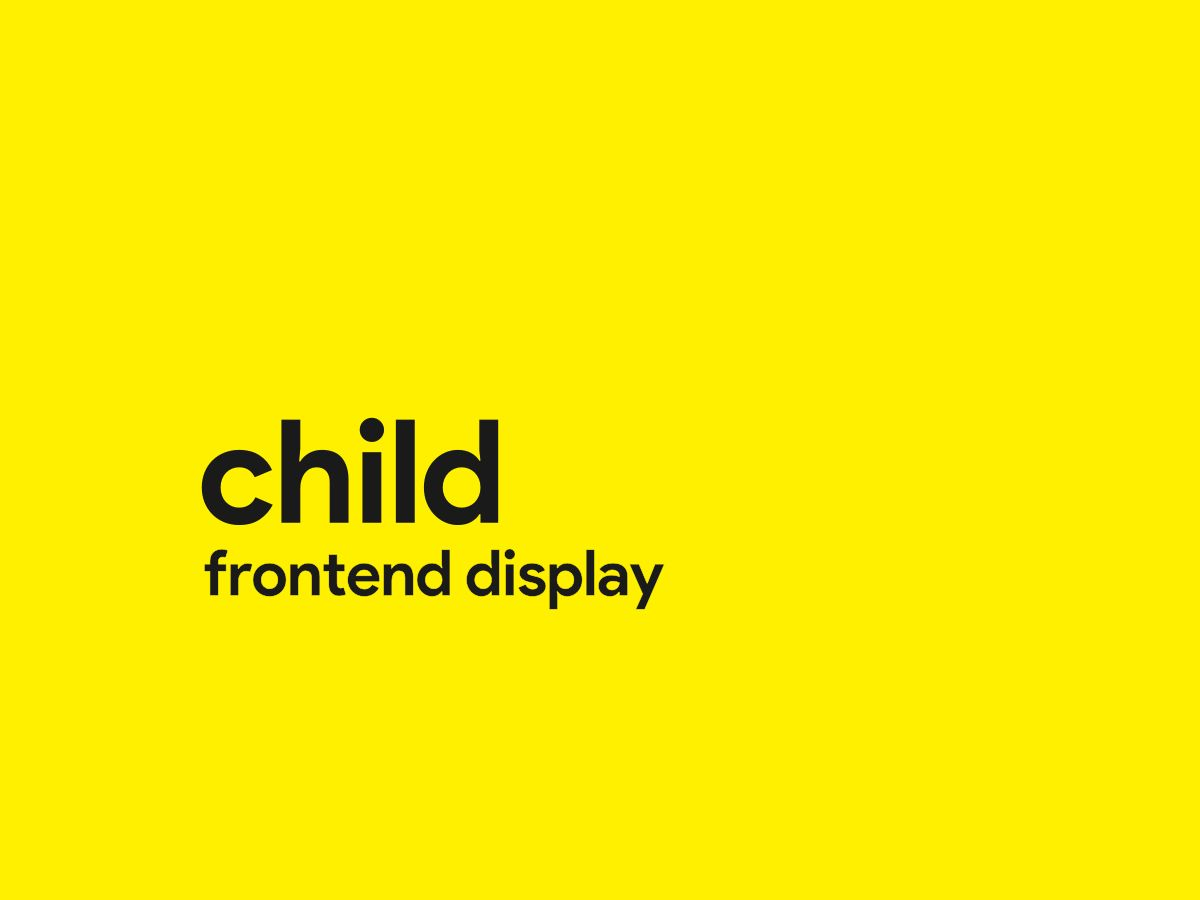
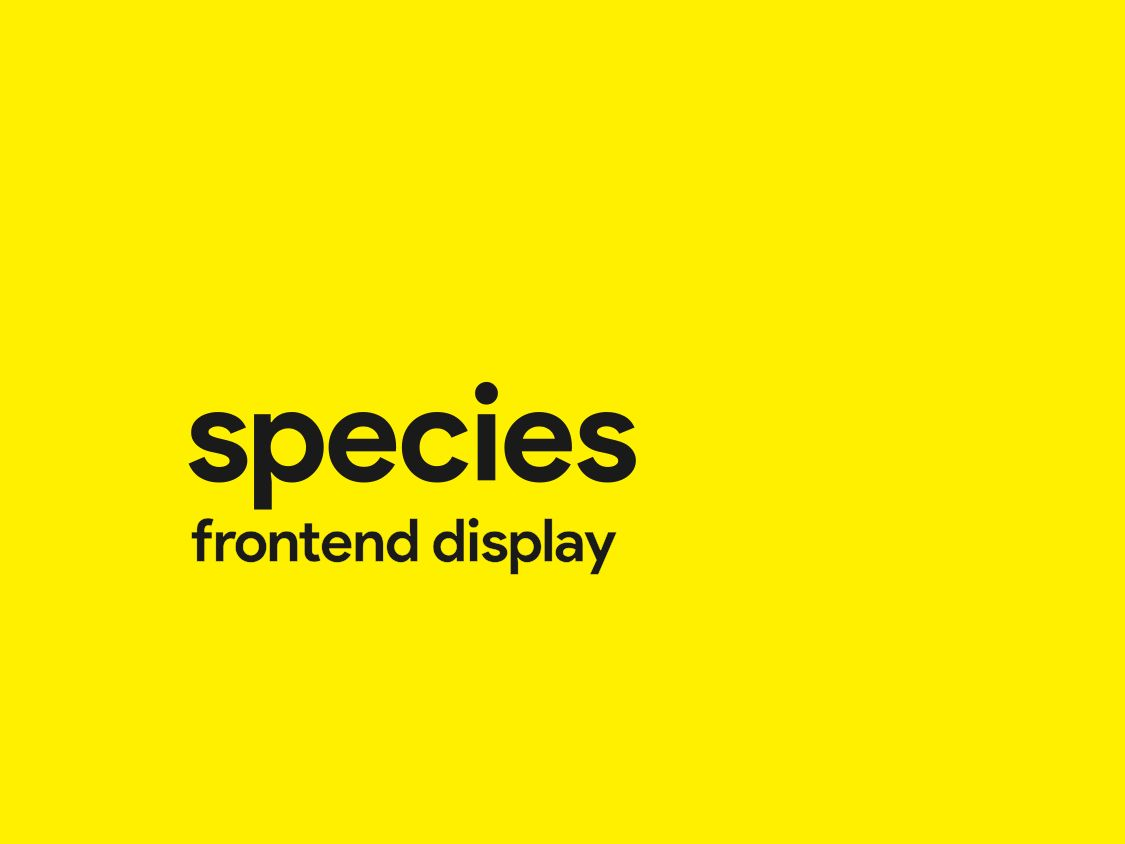
README, images.

Changed region(s): [[0.1556, 0.4313, 0.5911, 0.6777]]

diff --git a/README.md b/README.md
@@ -1,8 +1,10 @@
-# child
+# species
 
-Starter child theme for the [default theme](https://github.com/antibrand/theme).
+A child theme for the [genus theme](https://github.com/antibrand/genus).
 
 ![Version 1.0.0](https://img.shields.io/badge/Version-1.0.0-ffd000.svg?style=flat-square)
 ![PHP tested on version 7.3](https://img.shields.io/badge/PHP-tested%207.3-8892bf.svg?style=flat-square)
 
 ![cover image](https://raw.githubusercontent.com/antibrand/child/master/cover.jpg)
+
+## Coming So… metime
